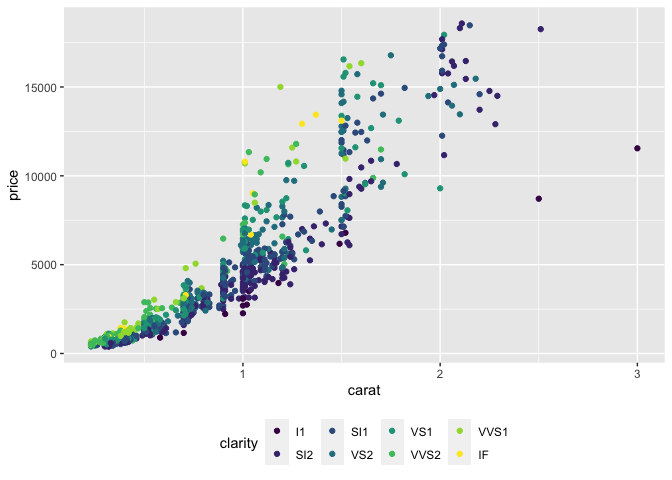
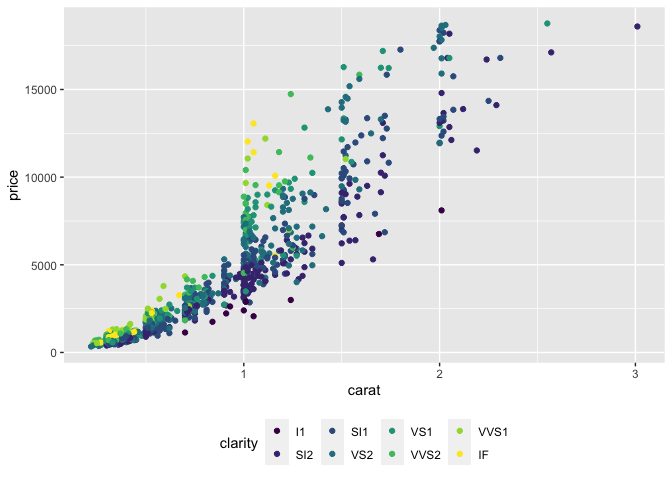
cmmmt

diff --git a/README.md b/README.md
@@ -104,7 +104,7 @@ mpg %>% ggplot(aes(x=class, y=cty, col=interaction(drv,cyl))) +
 
 …sorry. Here are some useful statistics shortcuts: <br>
 
-## smooth\_lm()
+## geom\_smooth\_lm()
 
 Adds a linear regression line to scatter plot and calls ggpubr to print
 the line equation and p value
@@ -226,7 +226,7 @@ mpg %>% ggplot(aes(x=manufacturer,y=hwy)) + geom_boxjitter() + x_angle()
 
 <br>
 
-## plot\_cycle\_col()
+## plot\_cycle\_cols()
 
 This function is useful when you want to make scatterplots (for example,
 PCA plots) coloured by multiple different factors. The colour space is
@@ -260,7 +260,7 @@ my_features <- c('year','drv','cyl','manufacturer')
 ``` r
 my_df <- mpg %>% mutate(year=factor(year), cyl=factor(cyl))
 
-plot_cycle_col(df = my_df,  X='cty',Y='hwy', myLabel = 'manufacturer', colour_vec = my_features)
+plot_cycle_cols(df = my_df,  X='cty',Y='hwy', myLabel = 'manufacturer', colour_vec = my_features)
 ```
 
 ![](tidyExt_vignette_files/figure-gfm/unnamed-chunk-19-1.png)<!-- -->
@@ -380,12 +380,12 @@ diamond_mat %>% bighead()
     ## # A tibble: 6 x 6
     ##   carat cut       color clarity depth table
     ##   <chr> <chr>     <chr> <chr>   <chr> <chr>
-    ## 1 0.23  Very Good E     VS1     59.5  58.0 
-    ## 2 0.82  Ideal     F     SI2     62.3  56.0 
-    ## 3 0.83  Ideal     F     SI2     62.3  55.0 
-    ## 4 0.75  Premium   E     SI1     61.1  59.0 
-    ## 5 0.71  Very Good G     VS1     63.3  59.0 
-    ## 6 0.78  Ideal     D     SI1     61.9  57.0
+    ## 1 0.79  Ideal     D     SI1     61.5  56.0 
+    ## 2 0.81  Ideal     F     SI2     62.6  55.0 
+    ## 3 0.70  Premium   E     VS2     61.4  59.0 
+    ## 4 0.70  Very Good F     VS2     59.5  58.0 
+    ## 5 0.80  Ideal     I     VS2     62.1  54.4 
+    ## 6 0.72  Good      G     VS2     59.7  60.5
 
 NB this will return an 8x8 data frame as default when run in .R or .Rmd.
 

diff --git a/tidyExt_vignette.md b/tidyExt_vignette.md
@@ -380,12 +380,12 @@ diamond_mat %>% bighead()
     ## # A tibble: 6 x 6
     ##   carat cut       color clarity depth table
     ##   <chr> <chr>     <chr> <chr>   <chr> <chr>
-    ## 1 0.79  Ideal     D     SI1     61.5  56.0 
-    ## 2 0.81  Ideal     F     SI2     62.6  55.0 
-    ## 3 0.70  Premium   E     VS2     61.4  59.0 
-    ## 4 0.70  Very Good F     VS2     59.5  58.0 
-    ## 5 0.80  Ideal     I     VS2     62.1  54.4 
-    ## 6 0.72  Good      G     VS2     59.7  60.5
+    ## 1 1.01  Premium   I     SI1     62.7  60.0 
+    ## 2 0.81  Very Good E     SI2     62.4  57.0 
+    ## 3 0.70  Very Good D     VS2     61.8  55.0 
+    ## 4 0.72  Very Good F     VS2     63.0  54.0 
+    ## 5 0.74  Very Good E     VS1     63.1  58.0 
+    ## 6 0.70  Very Good E     SI1     63.5  59.0
 
 NB this will return an 8x8 data frame as default when run in .R or .Rmd.
 
